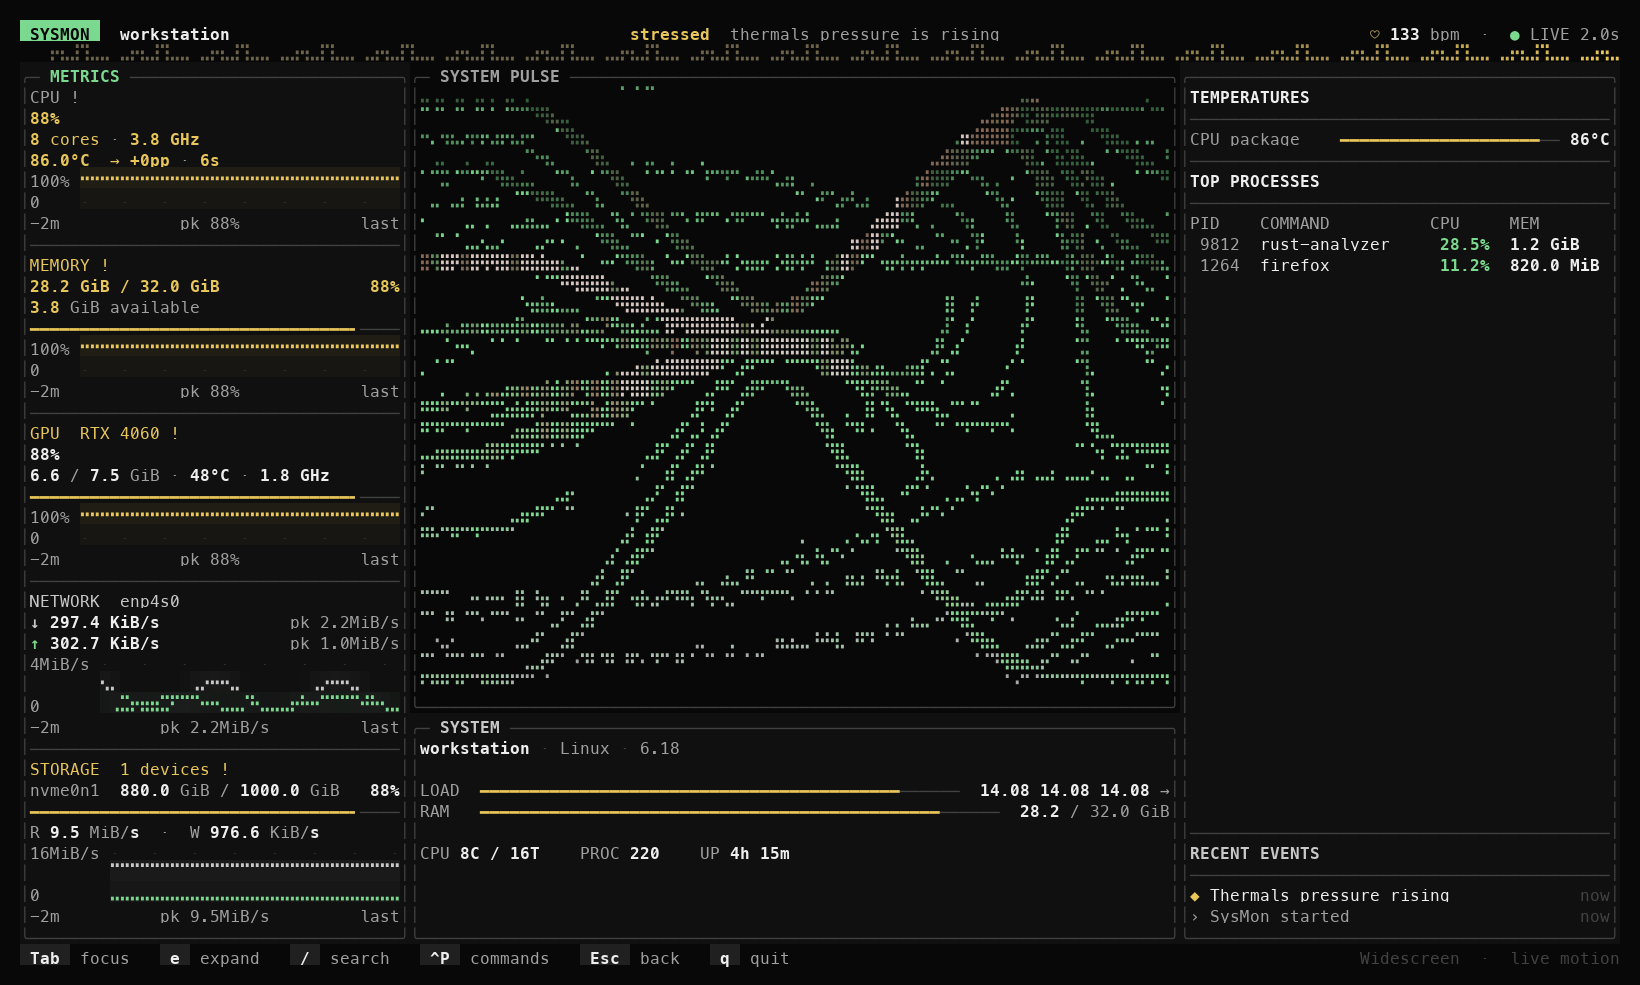
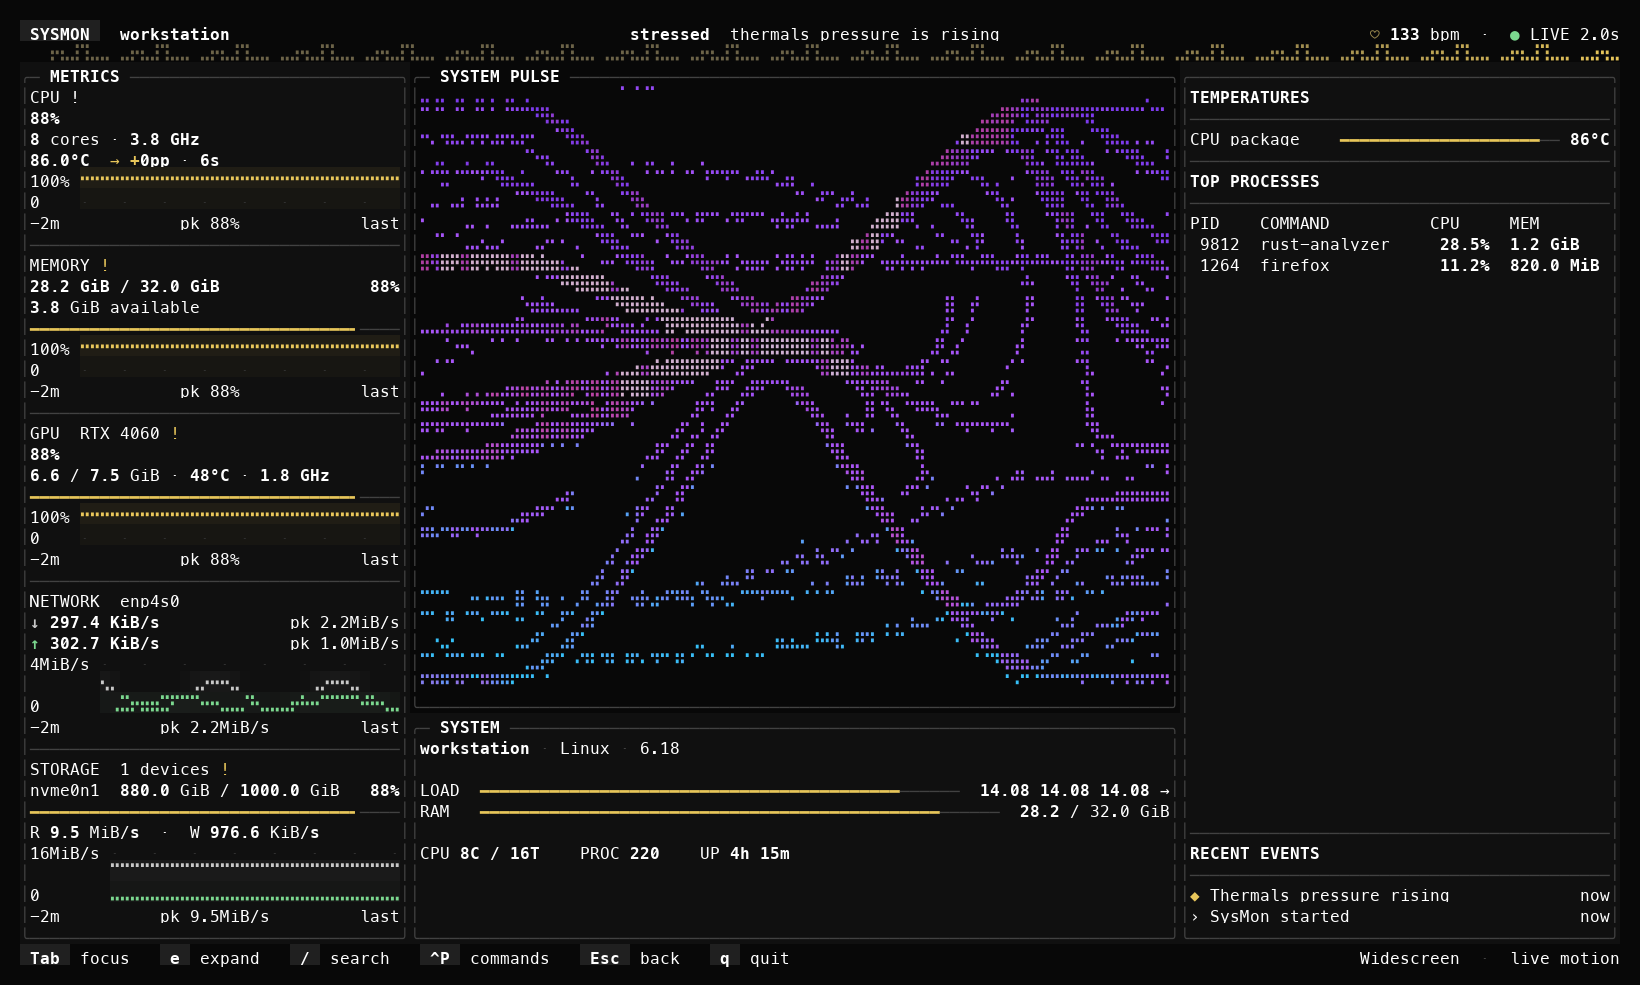
docs(theme): refresh captures for original Pulse and white typography

diff --git a/docs/graphics-architecture.md b/docs/graphics-architecture.md
@@ -108,8 +108,7 @@ em [Resultados](graphics-overhaul-results.md).
 
 ## Paleta semântica — revisão de 22/10/2026
 
-O tema padrão Pulse usa fundo `#080808`, superfície `#101010`, texto `#EEEEEE`
-e texto secundário `#A0A0A0`. Bordas, foco, seleção e informação são neutros.
+O tema padrão Pulse usa fundo `#080808`, superfície `#101010`, texto e texto secundário `#FFFFFF`. Bordas, foco, seleção e informação são neutros.
 Verde `#7BD88F`, amarelo `#E8C65A` e vermelho `#F07575` indicam, respectivamente,
 telemetria normal, atenção e estado crítico. Os presets opcionais Catppuccin e
 Tokyo Night continuam disponíveis com suas paletas próprias.
@@ -124,8 +123,13 @@ Rede e I/O usam branco e verde, com legendas e posições distintas, pois taxa a
 isoladamente não define um estado crítico. Tendência ascendente de load deixou
 de receber amarelo por si só.
 
-`Theme::pulse_scene` deriva tons verdes, profundidade e destaques claros para o
-SYSTEM PULSE. A alteração é exclusivamente de apresentação: os algoritmos de
+`Theme::pulse_scene` restaura a paleta original roxa/ciano, incluindo os tons
+de alerta e destaques anteriores, exclusivamente para o SYSTEM PULSE. A alteração é exclusivamente de apresentação: os algoritmos de
 movimento, energia, iluminação e rasterização não foram modificados. O campo
 continua aplicando os destaques de pressão existentes. Seus testes de cor usam a
 mesma paleta derivada aplicada pelo dashboard.
+
+Após os overlays e antes do fallback de terminal, `Theme::apply_text_palette`
+aplica branco aos caracteres textuais (letras, números e pontuação de unidades)
+do tema padrão. Remove DIM desses caracteres; mantém cores de Braille, blocos,
+barras e símbolos de estado. O logotipo usa fundo neutro para preservar contraste.

diff --git a/docs/graphics-overhaul-progress.md b/docs/graphics-overhaul-progress.md
@@ -134,3 +134,18 @@ decisions will be recorded in the accompanying graphics documents.
 - Capturas sintéticas em cinco tamanhos e expansões: 12 pares sem alteração de caracteres.
 - Fixtures adicionais `--status=warning` e `--status=critical` permitem reproduzir os estados.
 - Evidências e limitações no relatório; commits locais, sem push.
+
+
+### Correção solicitada — Pulse original e textos brancos
+
+O usuário esclareceu que o Pulse deve manter as cores anteriores. Restaurados
+os tokens originais roxo/ciano e seus destaques; a interface permanece neutra.
+Todos os textos do tema padrão, inclusive valores em alerta e textos secundários,
+passam a branco. Gráficos, barras e símbolos mantêm suas cores semânticas.
+As três capturas `palette-*.png` foram atualizadas para refletir esta correção.
+
+Validação: suíte existente de 336 testes passou, e um novo teste de tipografia
+passou separadamente (337 testes no total). Build release e Clippy estrito passaram.
+A captura de 160×45 confirmou que as células não vazias da cena central conservam
+os mesmos caracteres e cores de primeiro plano da versão anterior à revisão de
+paleta. O motor de animação não foi alterado. Sem push.

diff --git a/docs/graphics-overhaul-results.md b/docs/graphics-overhaul-results.md
@@ -303,3 +303,18 @@ uma moldura azulada herdada da paleta antiga. Logs intermediários ficam em
 O teste real em PTY também passou nos modos Unicode/TrueColor e ASCII/mono:
 oito eventos por modo, saída 0, tela alternativa e modo raw restaurados.
 [Evidência do terminal](graphics/palette-terminal-smoke.jsonl).
+
+
+### Correção solicitada — Pulse original e textos brancos
+
+O usuário esclareceu que o Pulse deve manter as cores anteriores. Restaurados
+os tokens originais roxo/ciano e seus destaques; a interface permanece neutra.
+Todos os textos do tema padrão, inclusive valores em alerta e textos secundários,
+passam a branco. Gráficos, barras e símbolos mantêm suas cores semânticas.
+As três capturas `palette-*.png` foram atualizadas para refletir esta correção.
+
+Validação: suíte existente de 336 testes passou, e um novo teste de tipografia
+passou separadamente (337 testes no total). Build release e Clippy estrito passaram.
+A captura de 160×45 confirmou que as células não vazias da cena central conservam
+os mesmos caracteres e cores de primeiro plano da versão anterior à revisão de
+paleta. O motor de animação não foi alterado. Sem push.
